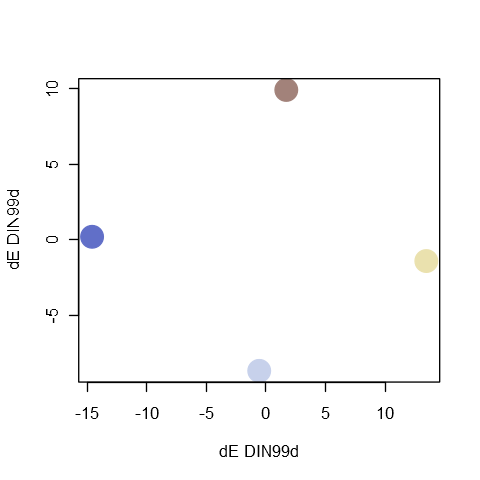
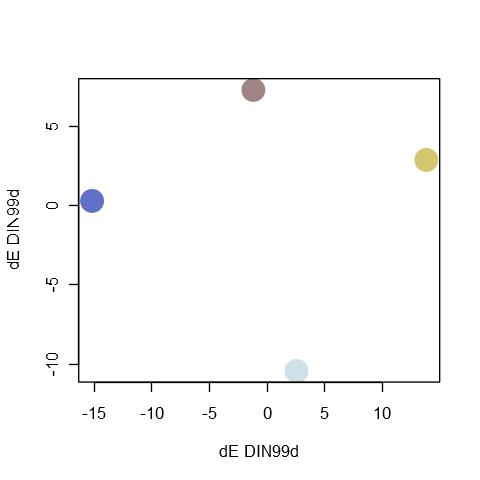
Update cran comments and rerun readme.

diff --git a/cran-comments.md b/cran-comments.md
@@ -1,9 +1,9 @@
 ## Test environments
-* Local Windows 10 Pro installation 10.0.14393, R 3.3.2
-* Ubuntu 12.04 and 14.04, R 3.3.1 and devel (on travis ci)
-* Mac OS X 10.11, R 3.3.1 (on travis ci)
-* Windows Server 2012 R2 x64, x32, R 3.3.2, R 3.3.1, and devel (on appveyor)
-* Win-builder, devel and R 3.3.1
+* Local Windows 10 Pro installation 10.0.14393, R 3.3.3 and devel
+* Ubuntu 12.04 and 14.04, R 3.3.2 and devel (on travis ci)
+* Mac OS X 10.11, R 3.3.3 (on travis ci)
+* Windows Server 2012 R2 x64, x32, R 3.3.3, and devel (on appveyor)
+* Win-builder, devel 2017-03-15 r72357
 
 ## R CMD check results
 
@@ -16,17 +16,6 @@ R CMD check generated the following notes:
 
 GNU make is required by RcppParallel.
 
-## Hot fix 
-
-This is a hot fix. Version 0.3.0 failed to build on
-
-* r-devel-linux-x86_64-fedora-clang
-* r-devel-macos-x86_64-clang, and
-* r-release-osx-x86_64-mavericks.
-
-This was due to the inclusion of a <ext/algorithm> header and this has now been
-fixed.
-
 ## Reverse dependencies
 
-Qualpalr has no reverse dependencies.
+qualpalr has no reverse dependencies.

diff --git a/README.md b/README.md
@@ -24,7 +24,7 @@ We can retrieve the generated colors in hex format
 
 ``` r
 pal$hex
-#> [1] "#C4719F" "#6FCEA4" "#CEAB7C" "#7696C0"
+#> [1] "#92CB72" "#B56CCB" "#79AED0" "#D0937E"
 ```
 
 Altneratively, we can create a palette using one of the predefined color subspaces and, optionally, adapt it to color deficiency (here *deuteranomaly*).
@@ -38,10 +38,10 @@ We can look at a distance matrix of the pairwise color differences from the pale
 
 ``` r
 pal2$de_DIN99d
-#>          #EAE1AE  #616FC8  #C7D1EB
-#> #616FC8 28.11831                  
-#> #C7D1EB 18.19722 18.63453         
-#> #A2827A 18.14012 20.35253 18.78603
+#>          #D4C76F  #616FC8  #D0E0E8
+#> #616FC8 29.14409                  
+#> #D0E0E8 18.78602 21.76547         
+#> #A08587 18.59491 18.38472 18.34490
 ```
 
 The palette may also be plotted with in a multidimensional scaling plot generated from the distance matrix of the colors in the palette.
